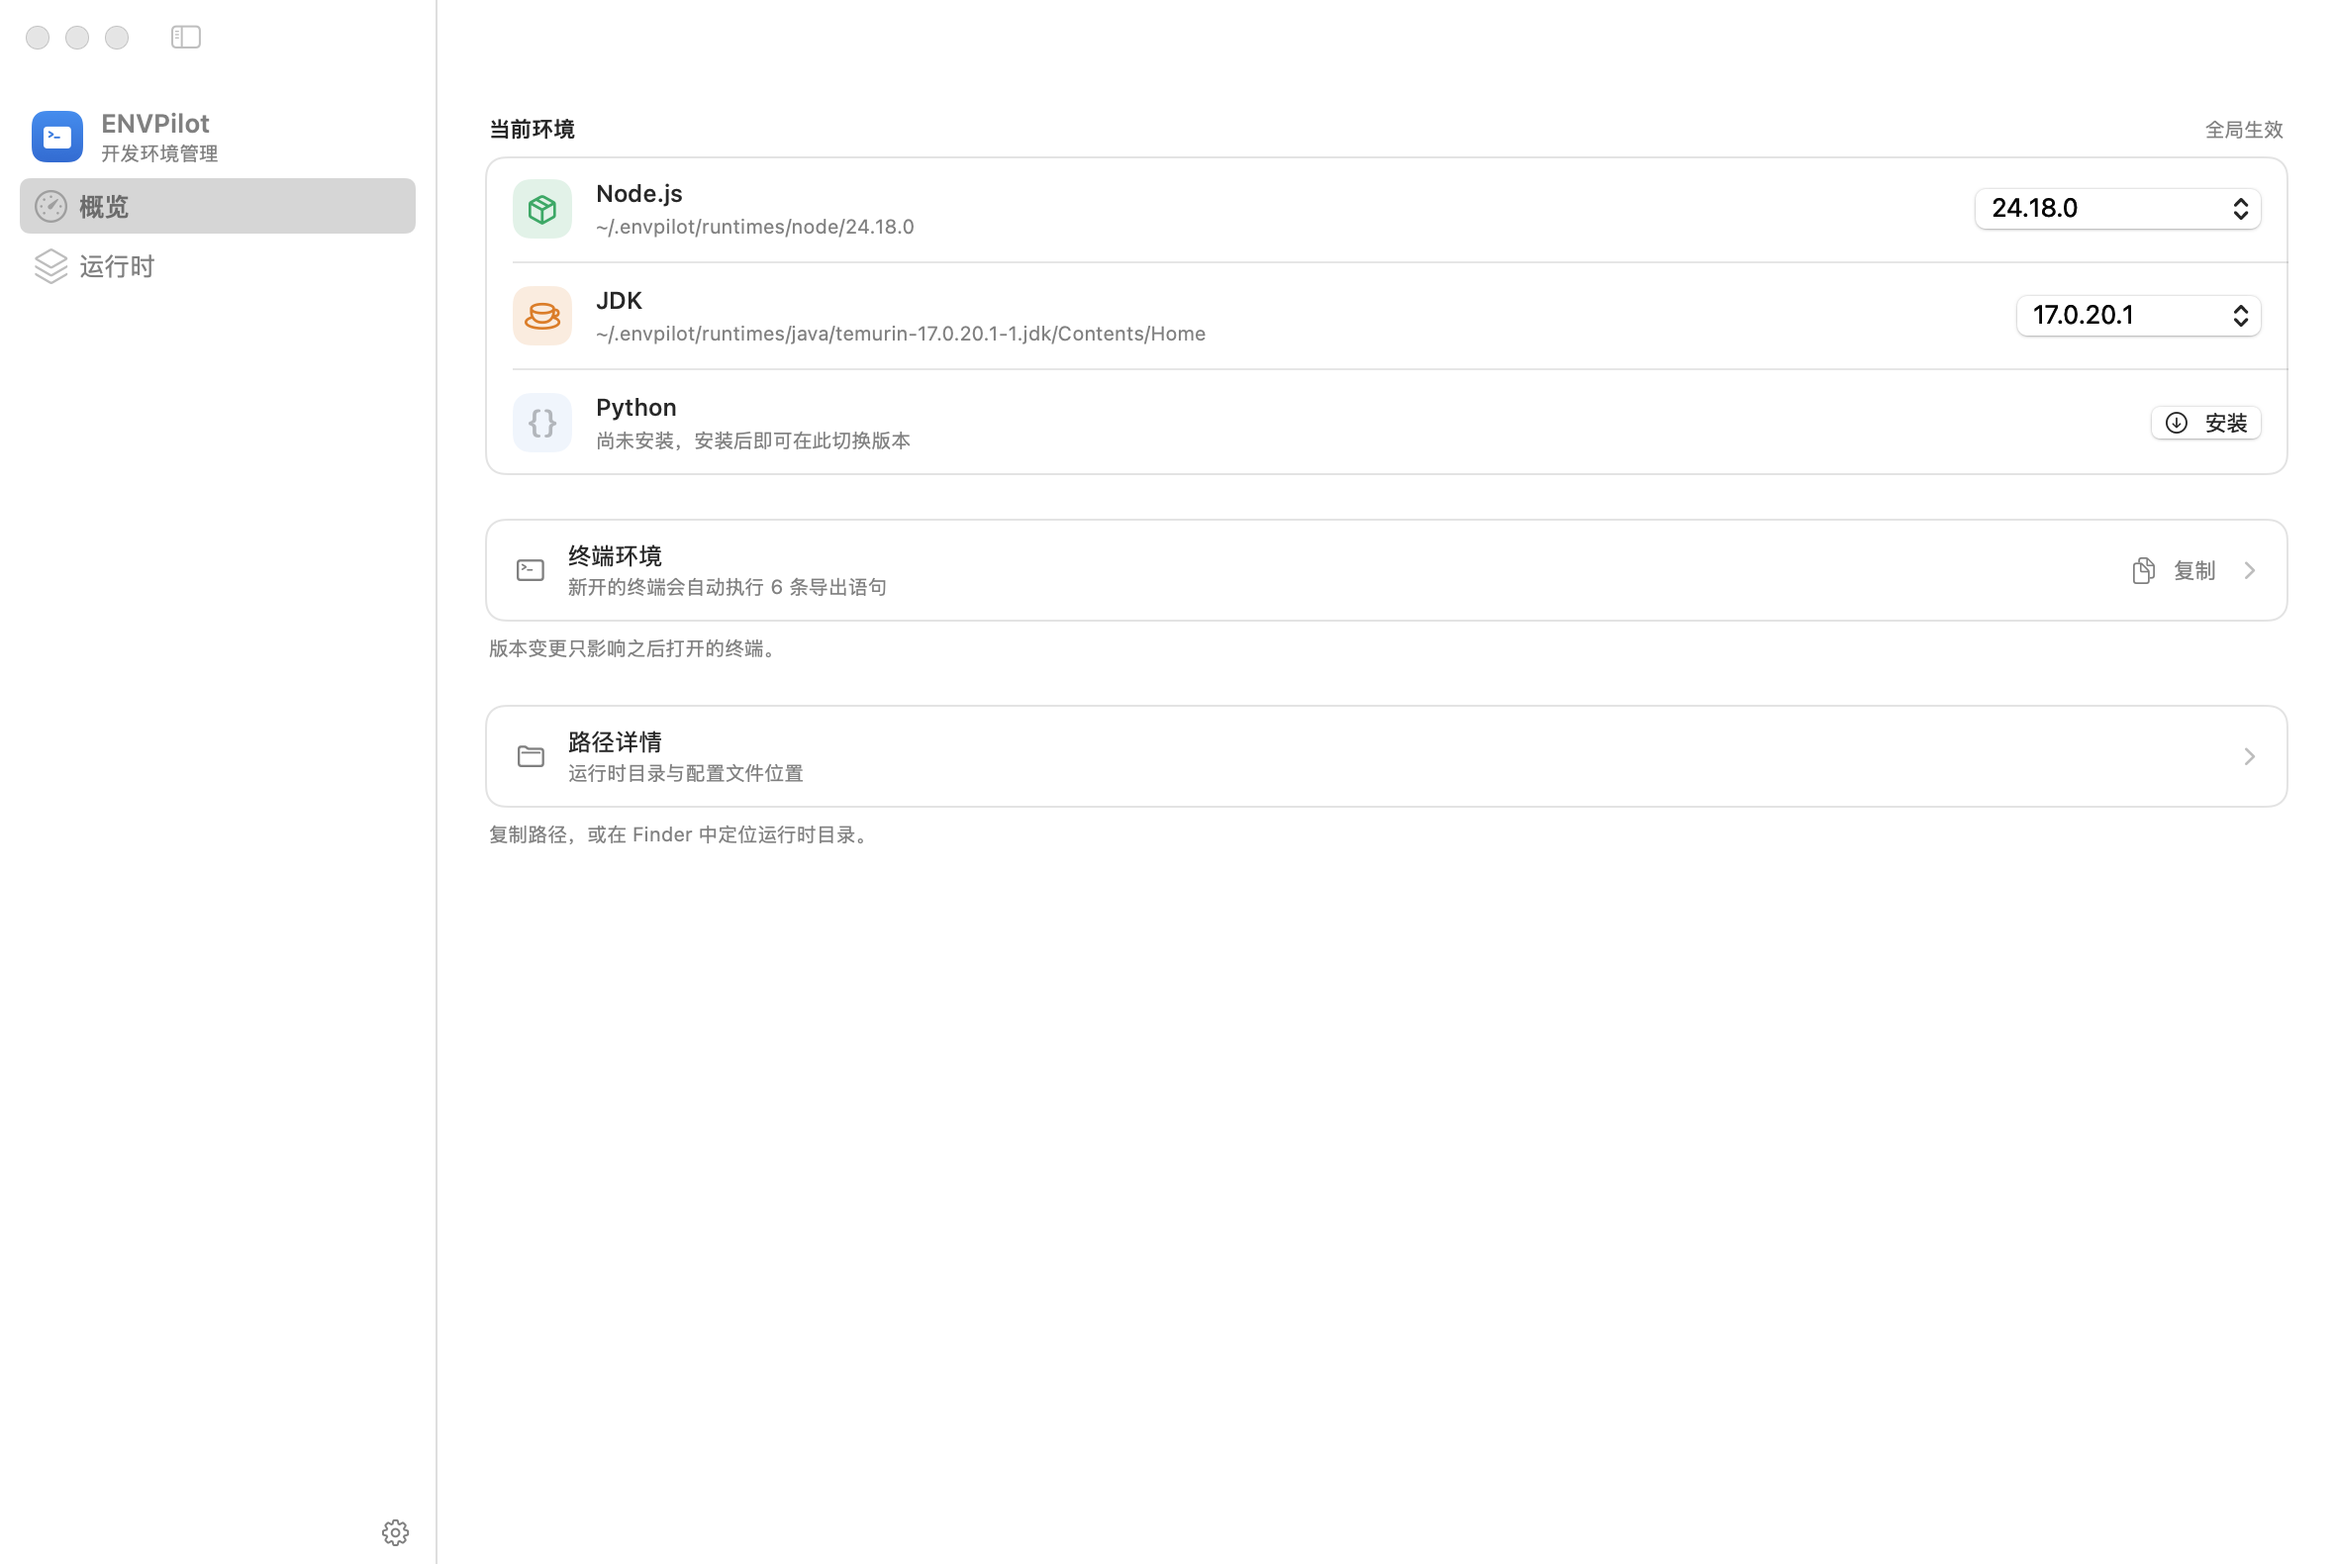
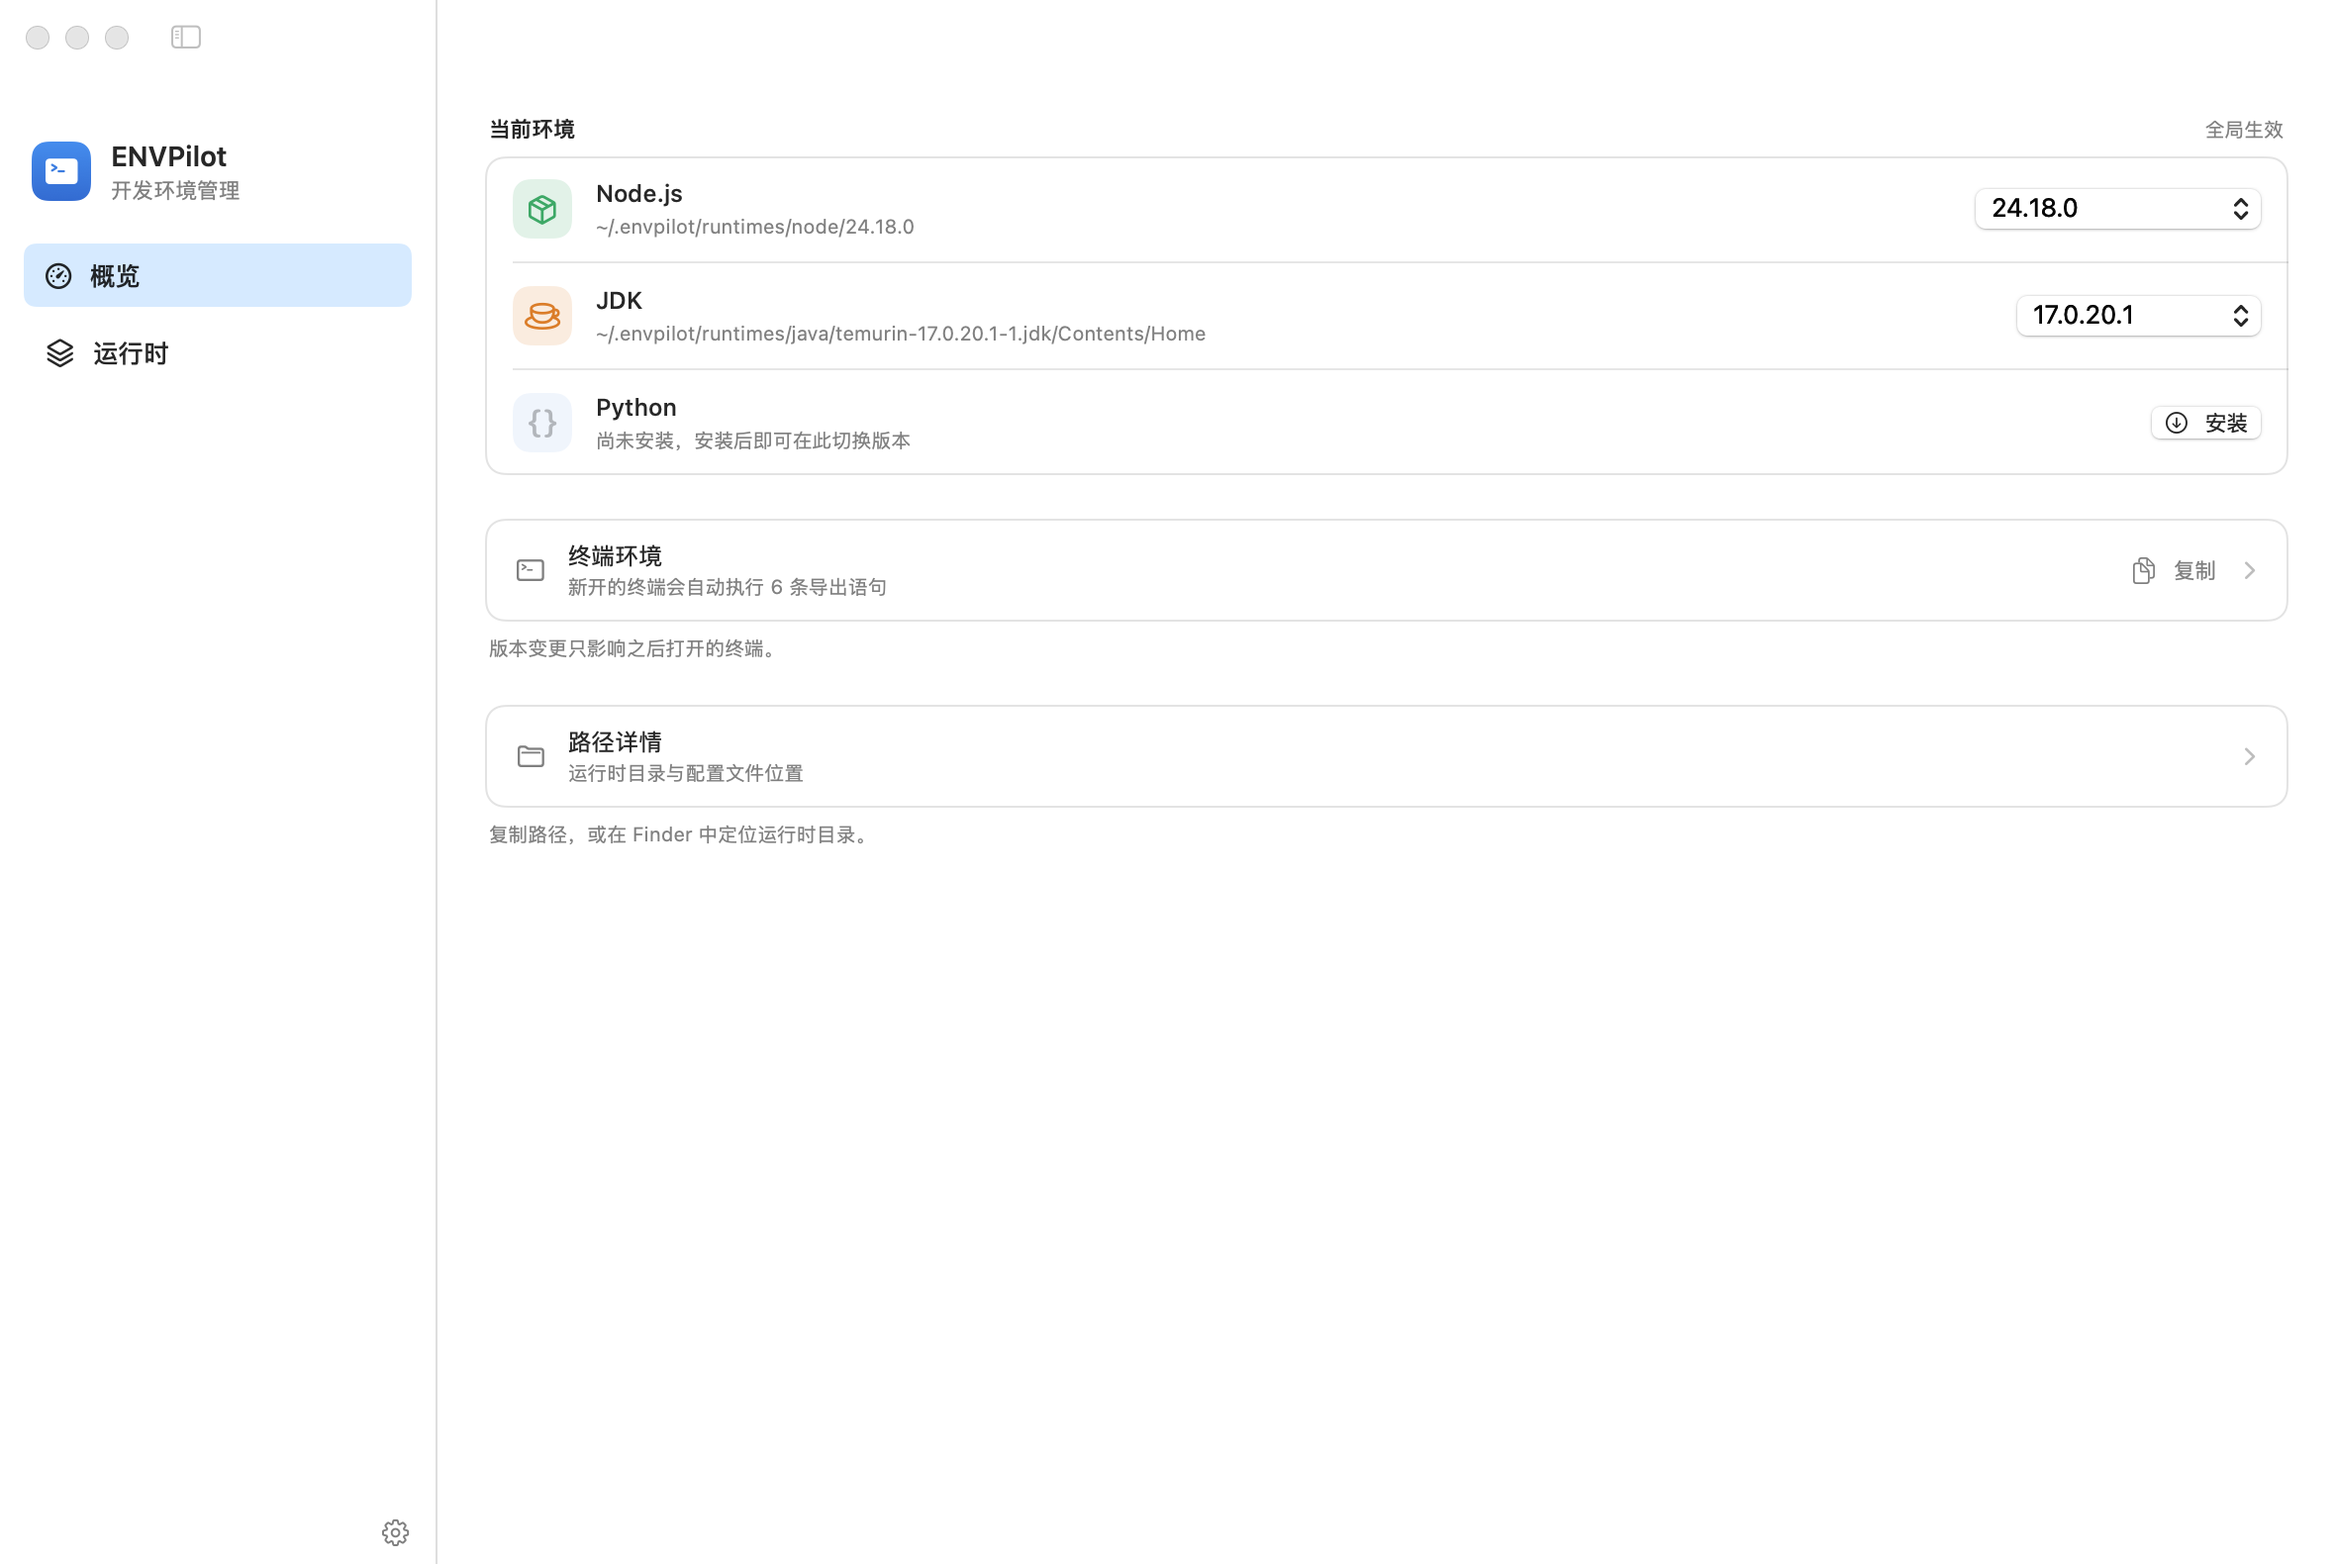
Rework the sidebar into separate brand and navigation zones (v0.6.6)
The brand row and the two nav items sat in the same List, three equal-
height rows pressed together, so the whole block "piled up" at the top
of the sidebar. Split it into two zones separated by whitespace (no
divider, per the design language):

- Brand zone: icon up to 30pt, 14pt name / 11pt tagline, top padding
  that clears the traffic lights, 18pt before the navigation zone.
- Navigation zone: the two entries laid out flat, styled with the
  (previously unused) SelectableRowStyle — soft rounded accent fill
  instead of the full-width List selection bar — with 34pt rows and a
  6pt gap between them.
- Selected entry gets the .isSelected accessibility trait.

Regenerates docs/screenshots/overview.png (same 2360x1580) and notes
the change under v0.6.6 in the changelog.

Changed region(s): [[0.0, 0.062, 0.1856, 0.2481]]

diff --git a/Sources/NodePilotApp/RootView.swift b/Sources/NodePilotApp/RootView.swift
@@ -55,30 +55,30 @@ struct RootView: View {
 
     // MARK: Sidebar
 
+    /// 侧边栏分两区，都用留白隔开而不是分隔线：
+    /// 上面的品牌区只表身份，下面的导航区只剩两项。
+    /// 原来它们挤在同一个 `List` 里，三行等高的行贴在一起，
+    /// 整块内容看起来「堆」在顶部。拆成两区之后，身份和导航各占一层，
+    /// 行与行、区与区之间都有明确的呼吸感。
     private var sidebar: some View {
-        List(selection: $section) {
-            brandRow
-
-            // 只剩两项，平铺即可，不再分组。
-            ForEach(AppSection.allCases) { item in
-                Label(item.title, systemImage: item.symbol)
-                    .tag(item)
-            }
+        VStack(spacing: 0) {
+            brandHeader
+            nav
+            Spacer(minLength: 0)
         }
-        .listStyle(.sidebar)
-        // 侧边栏默认是半透明的 sidebar 材质，铺在白/黑画布旁边会显出一块灰。
+        .frame(maxWidth: .infinity, maxHeight: .infinity, alignment: .top)
         // 整页统一成同一张白/黑台面，两栏只靠中间那条分隔线分开。
-        .scrollContentBackground(.hidden)
         .background(DesignColor.canvas)
         .safeAreaInset(edge: .bottom, spacing: 0) {
             sidebarFooter
         }
     }
 
-    /// 品牌行。没有 `tag`，因此在选择型 `List` 里不可选中，只作为身份标识。
-    private var brandRow: some View {
-        HStack(spacing: 9) {
-            RoundedRectangle(cornerRadius: 7, style: .continuous)
+    /// 品牌区：图标 + 名称 + 一句定位，只作身份标识，不可选中。
+    /// 标题栏是隐藏的（内容铺到窗口最顶端），顶部留白要越过红绿灯。
+    private var brandHeader: some View {
+        HStack(spacing: 10) {
+            RoundedRectangle(cornerRadius: 8, style: .continuous)
                 .fill(
                     LinearGradient(
                         colors: [
@@ -89,25 +89,51 @@ struct RootView: View {
                         endPoint: .bottom
                     )
                 )
-                .frame(width: 26, height: 26)
+                .frame(width: 30, height: 30)
                 .overlay {
                     Image(systemName: "terminal.fill")
-                        .font(.system(size: 12, weight: .semibold))
+                        .font(.system(size: 14, weight: .semibold))
                         .foregroundStyle(.white)
                 }
 
-            VStack(alignment: .leading, spacing: 1) {
+            VStack(alignment: .leading, spacing: 2) {
                 Text("ENVPilot")
-                    .font(.system(size: 13, weight: .semibold))
+                    .font(.system(size: 14, weight: .semibold))
                 Text("开发环境管理")
-                    .font(.system(size: 10))
+                    .font(.system(size: 11))
                     .foregroundStyle(.secondary)
             }
 
             Spacer(minLength: 0)
         }
-        .padding(.vertical, 2)
-        .listRowSeparator(.hidden)
+        .padding(.horizontal, 16)
+        .padding(.top, 32)
+        .padding(.bottom, 18)
+    }
+
+    /// 导航区：两项平铺，不再分组。
+    ///
+    /// 用 `SelectableRowStyle`（强调色浅底 + 圆角）替代 `List` 的全宽选中条：
+    /// 行高可以自己做主，行与行之间留出 6pt，读起来是两个独立入口而不是一条
+    /// 挤在一起的列表。
+    private var nav: some View {
+        VStack(spacing: 6) {
+            ForEach(AppSection.allCases) { item in
+                Button {
+                    section = item
+                } label: {
+                    Label(item.title, systemImage: item.symbol)
+                        .font(.system(size: 13, weight: .medium))
+                        .padding(.horizontal, 10)
+                        .padding(.vertical, 8)
+                        .frame(maxWidth: .infinity, alignment: .leading)
+                }
+                .buttonStyle(SelectableRowStyle(isSelected: (section ?? .overview) == item))
+                .accessibilityAddTraits((section ?? .overview) == item ? [.isSelected] : [])
+            }
+        }
+        .padding(.horizontal, 12)
+        .padding(.top, 2)
     }
 
     /// 侧边栏底部只放动作：更新胶囊（有新版时才有）和设置按钮。

diff --git a/CHANGELOG.md b/CHANGELOG.md
@@ -16,7 +16,7 @@
 ### 主窗口
 
 - 侧边栏底部两行小字（运行时版本摘要、「新终端生效」）和中间的刷新按钮删掉，只留更新角标与设置按钮。刷新挪进「显示」菜单，⌘R 不变。
-- 侧边栏不再分组：只剩「概览」「运行时」两项，一组两项的分组标题只是噪音。
+- 侧边栏重新分成两区：上面的品牌区（图标加大到 30pt，顶部留白越过红绿灯）与下面的导航区（「概览」「运行时」两项平铺，不再分组）。此前品牌行和两个导航项挤在同一个 `List` 里，三行等高贴在一起，整块内容「堆」在侧边栏顶部。导航项改用 `SelectableRowStyle`（强调色浅底 + 圆角）替代 `List` 的全宽选中条，行高和行间距（6pt）可以自己做主。
 - 修好设置按钮。`NSApp.sendAction(Selector(("showSettingsWindow:")))` 在 macOS 27 上会返回 `true`（响应链上的 `AppDelegate` 用消息转接把动作吃掉了）但一个窗口都不开——按钮看起来就是点不动。现在改成派发主菜单里那个「设置…」项（SwiftUI 把它接在自己的 `menuAction:` 上），实测能真的开出设置窗口；两个历史选择器留作老系统的降级路径。
 
 ### 菜单栏
